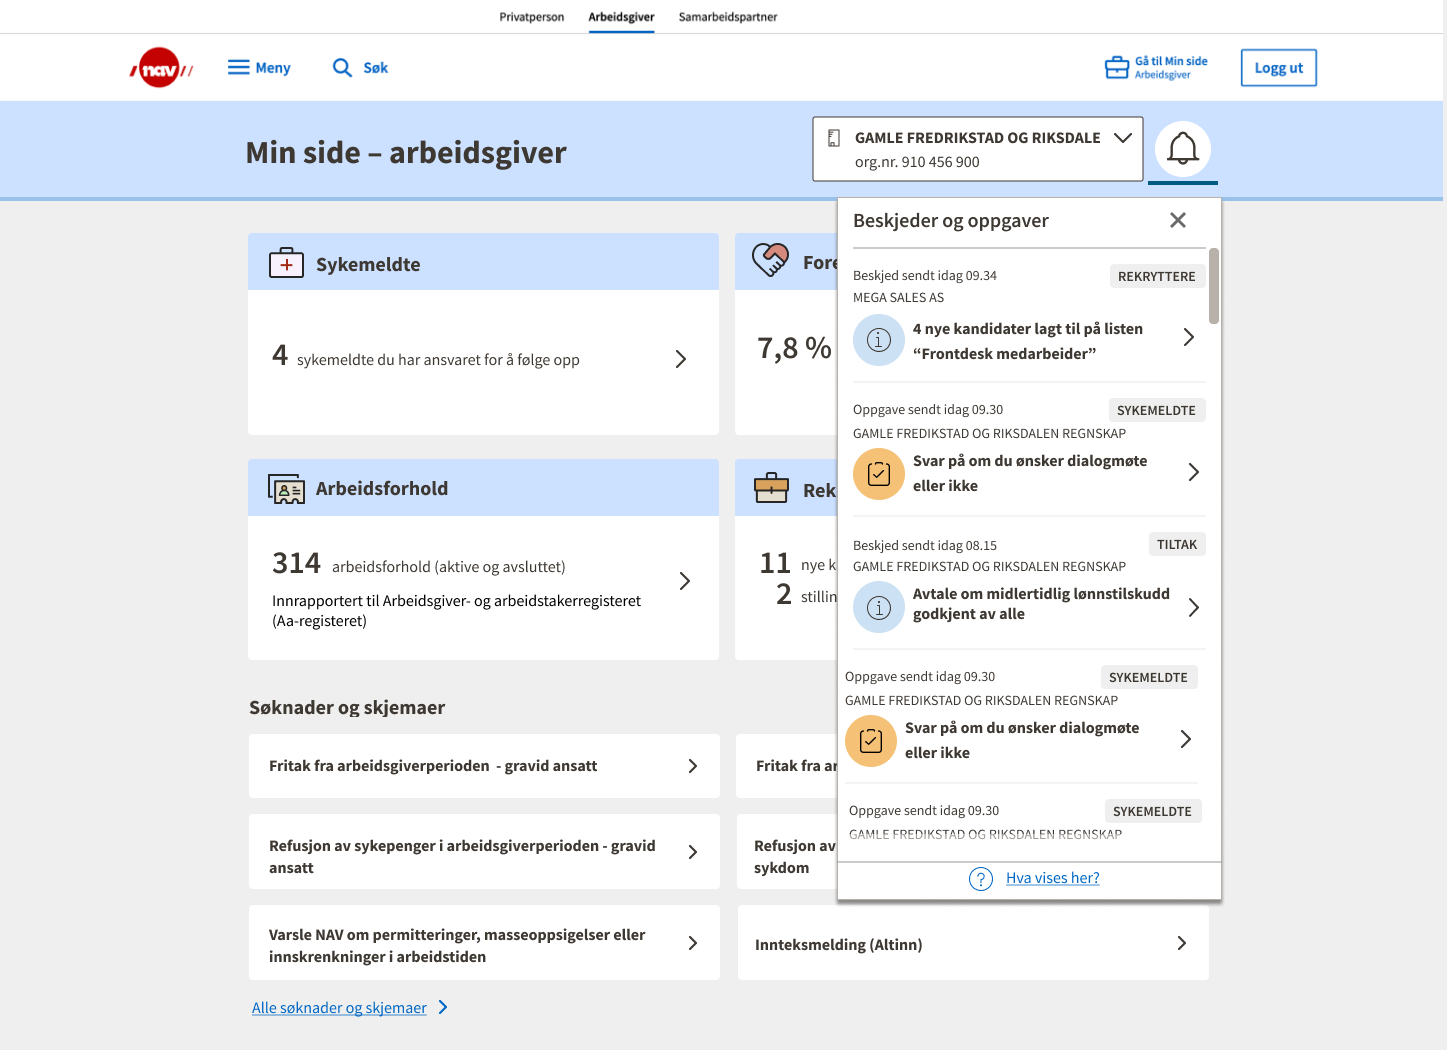
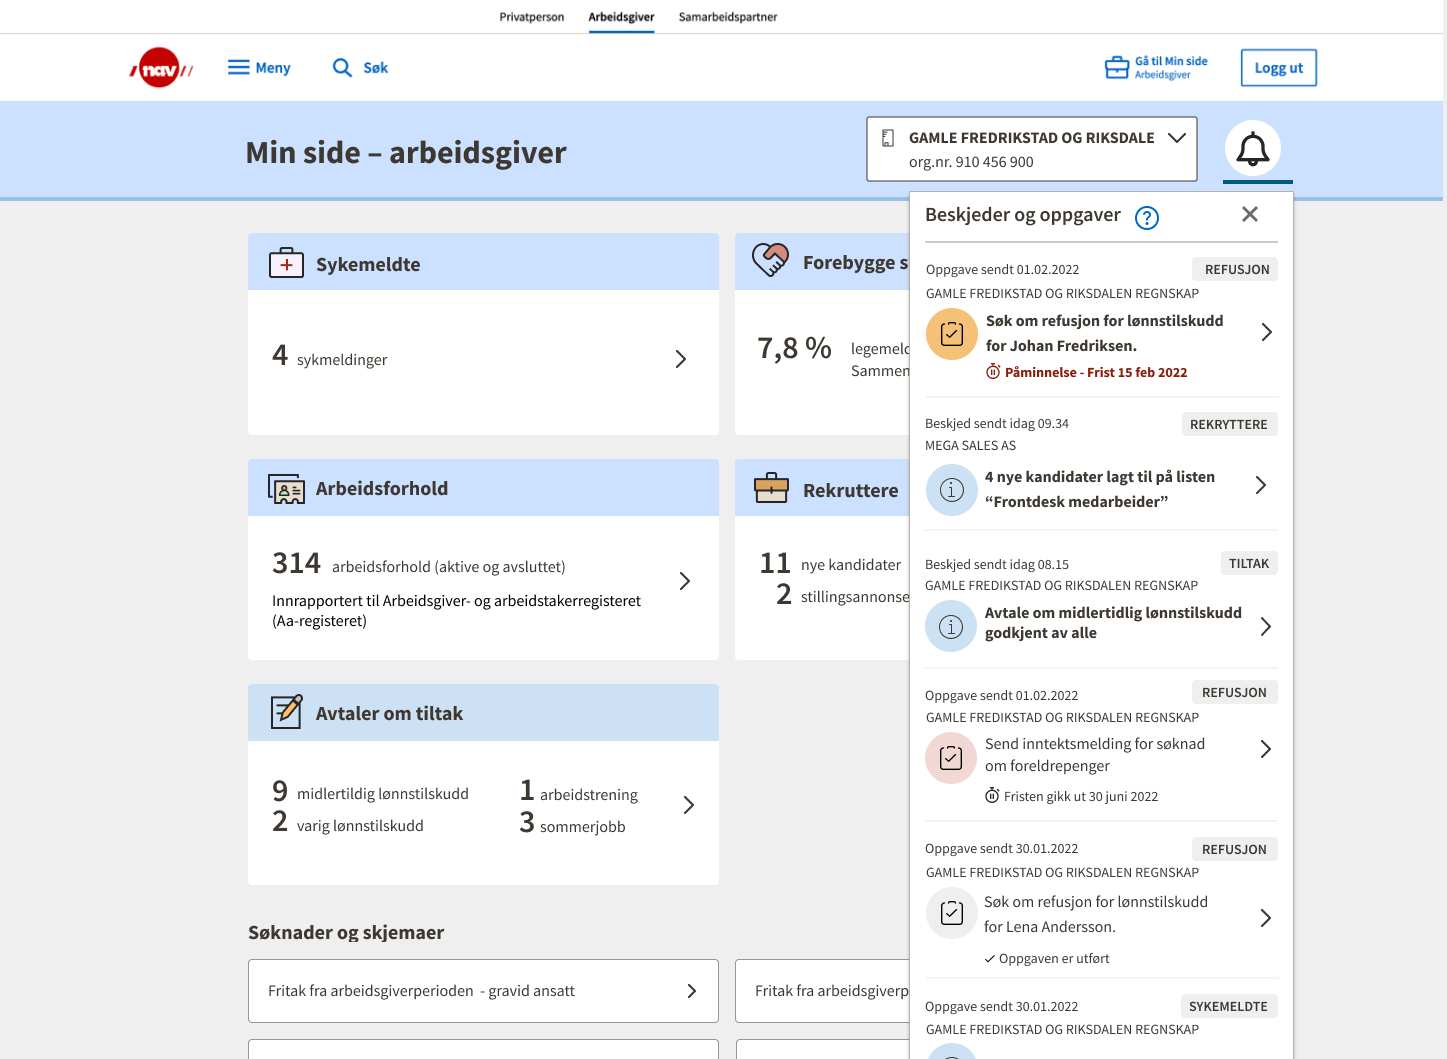
oppdater dokumentasjon med beskrivelse av frist og påminnelse

diff --git a/docs/guide.md b/docs/guide.md
@@ -137,7 +137,44 @@ mutation MarkerOppgaveSomUtfoert($id: ID!) {
 }
 ```
 
-(Eksempel på oppdatering med deres ID kommer senere. Vi skal lage versjon 2, som fikser en typefeil.)
+```graphql
+mutation MarkerOppgaveSomUtfoert($merkelapp: String!, $eksternId: String!) {
+  oppgaveUtfoertByEksternId_V2(merkelapp: $merkelapp, eksternId: $eksternId) {
+    __typename
+    ... on Error {
+      feilmelding
+    }
+  }
+}
+```
+
+## Hvordan markere oppgave som utgått 
+Dere kan markere en oppgave som utgått, ved å bruke en av følgende:
+- vår ID, som vi returnerte til dere da dere opprettet oppgaven
+- deres ID, som dere oppga  som `eksternId` da dere opprettet oppgaven.
+
+
+```graphql
+mutation MarkerOppgaveSomUtgaatt($id: ID!) {
+  oppgaveUtgaatt(id: $id) {
+    __typename
+    ... on Error {
+      feilmelding
+    }
+  }
+}
+```
+
+```graphql
+mutation MarkerOppgaveSomUtgaatt($merkelapp: String!, $eksternId: String!) {
+  oppgaveUtgaattByEksternId(merkelapp: $merkelapp, eksternId: $eksternId) {
+    __typename
+    ... on Error {
+      feilmelding
+    }
+  }
+}
+```
 
 ## Hvordan opprette ny sak
 
@@ -160,7 +197,7 @@ mutation OpprettNySak(
     }]
     tittel: $tittel
     lenke: $lenke
-    initiell_status: MOTTATT
+    initiellStatus: MOTTATT
     tidspunkt: "2022-03-01T17:18:00+01" # optional
     overstyrStatustekstMed: "Avtale opprettet" # optional
   ) {
@@ -185,7 +222,7 @@ Vår ID:
 mutation OpprettNySak($id: ID!) {
   nyStatusSak(
     id: $id
-    ny_status: UNDER_BEHANDLING
+    nyStatus: UNDER_BEHANDLING
     tidspunkt: "2022-03-01T18:18:00+01" # optional
     overstyrStatustekstMed: "Avtale opprettet" # optional
   ) {
@@ -206,7 +243,7 @@ mutation OpprettNySak($grupperingsid: String!) {
   nyStatusSakByGrupperingsid(
     grupperingsid: $grupperingsid
     merkelapp: "Tiltak"
-    ny_status: UNDER_BEHANDLING
+    nyStatus: UNDER_BEHANDLING
     tidspunkt: "2022-03-01T18:18:00+01" # optional
     overstyrStatustekstMed: "Avtale opprettet" # optional
   ) {
@@ -284,7 +321,7 @@ nyBeskjed: {
 }
 ```
 
-## Opprette beskjed med SMS og e-post
+## Hvordan opprette beskjed med varsling på SMS og e-post
 SMS eller e-post skal ikke inneholde noen personopplysninger men si generelt hva varslet gjelder.
 F.eks. “_Du har en ny sykemelding. Logg inn på NAV på Min side – arbeidsgiver for å finne den_”. 
 Se bruksvilkårene for flere detaljer.
@@ -374,6 +411,91 @@ med variabler
 }
 ```
 
+## Hvordan opprette en oppgave med frist og automatisk påminnelse før fristen
+
+Du kan spesifisere frist for når oppgaven skal utføres av bruker. Ideen er at etter fristen, så har ikke bruker lov, eller dere sperret for,
+å gjøre oppgaven. Fristen vises til bruker i grensesnittet. Oppgaven blir automatisk markert som `UTGAAT` når fristen er forbi.
+
+Du kan også spesifisere en påminnelse for en oppgave. Brukeren vil bli gjort oppmerksom via bjellen og evt ekstern varsling dersom du oppgir det.
+Du kan også velge å angi ekstern varsling som vil sendes når påminnelsen aktiveres.
+
+Funksjonaliteten rundt frist og påminnelse er dokumentert i [API dokumentasjonen](https://navikt.github.io/arbeidsgiver-notifikasjon-produsent-api/api/)
+
+```graphql
+mutation OpprettNyOppgaveMedFristOgPaaMinnelse(
+  $eksternId: String!
+  $virksomhetsnummer: String!
+  $lenke: String!
+  $tekst: String!
+  $grupperingsId: String!
+  $tlf: String!
+  $frist: ISO8601Date!
+) {
+  nyOppgave(nyOppgave: {
+    metadata: {
+      eksternId: $eksternId
+      grupperingsid: $grupperingsId
+      virksomhetsnummer: $virksomhetsnummer
+    }
+    frist: $frist
+    paaminnelse: {
+      tidspunkt: {
+        foerFrist: "P5D"
+        #etterOpprettelse: "P10D"
+        #konkret: "2022-12-24T00:00:00"
+      }
+      eksterneVarsler: [
+        {
+          sms: {
+            mottaker: {
+              kontaktinfo: {
+                tlf: $tlf
+              }
+            }
+            smsTekst: "Vi mangler svar fra deg. Logg inn på NAV på Min side – arbeidsgiver for å svare"
+            sendevindu: NKS_AAPNINGSTID
+          }
+        }
+      ]
+    }
+    mottakere: [
+      {
+        altinn: {
+          serviceCode: "4321"
+          serviceEdition: "1"
+        }
+      }
+    ]
+    notifikasjon: {
+      merkelapp: "Pensjon"
+      tekst: $tekst
+      lenke: $lenke
+    }
+  }) {
+    __typename
+    ... on NyOppgaveVellykket {
+      id
+    }
+    ... on Error {
+      feilmelding
+    }
+  }
+}
+```
+
+med variabler
+```json
+{
+  "eksternId": "saksnummer-1234",
+  "grupperingsId": "saksnummer-1234",
+  "virksomhetsnummer": "012345678",
+  "tekst": "Du har en søknad du må fylle ut",
+  "lenke": "https://dev.nav.no/sakssystem/?sak=1234",
+  "tlf": "123445",
+  "frist": "2022-12-31"
+}
+```
+
 ## Hvordan slette notifikasjoner og saker automatisk
 For å slette en notifikasjon helt, både fra databaser og kafka-topics, så må dere
 bruke hard delete. Da slettes informasjonen knyttet til notifikasjonen
@@ -399,7 +521,7 @@ mutation OpprettSakMedAutomatiskSletting {
     grupperingsid: "12345"
     merkelapp: "Tiltak"
     virksomhetsnummer: "000000000"
-    initiell_status: MOTTATT
+    initiellStatus: MOTTATT
     mottakere: [{
       altinn: {
         serviceEdition: "1" 
@@ -430,7 +552,7 @@ mutation OppdaterSakMedAutomatiskSletting {
     }
     grupperingsid: "12345"
     merkelapp: "Tiltak"
-    ny_status: UNDER_BEHANDLING
+    nyStatus: UNDER_BEHANDLING
   ) {
     __typename
   }

diff --git a/docs/index.md b/docs/index.md
@@ -35,7 +35,9 @@ Dette er en typisk informasjonsmelding til arbeidsgiver. Denne krever ikke nødv
 
 __Oppgave__
 
-Oppgave brukes når du trenger at arbeidsgiver skal gjøre en konkret handling. For eksempel «Du må godkjenne avtalen innen...» Du som produsent må holde styr på når oppgaven er fullført. Arbeidsgiver vil da se oppgaven som utført. 
+Oppgave brukes når du trenger at arbeidsgiver skal gjøre en konkret handling. For eksempel «Du må godkjenne avtalen innen...» Du som produsent må holde styr på når oppgaven er fullført. 
+Arbeidsgiver vil da se oppgaven som utført. Du kan velge å sette en frist på oppgaven. Fristen vises til arbeidsgiver. 
+Blir oppgaven ikke utført innen fristen vil den automatisk få status “utgått”. Blir en oppgave ikke utført kan du sende en påminnelse.
 
 ![](images/oppgave.svg)
 
